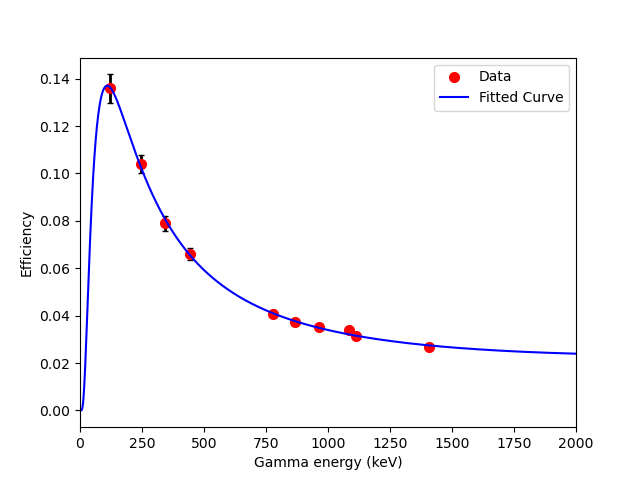
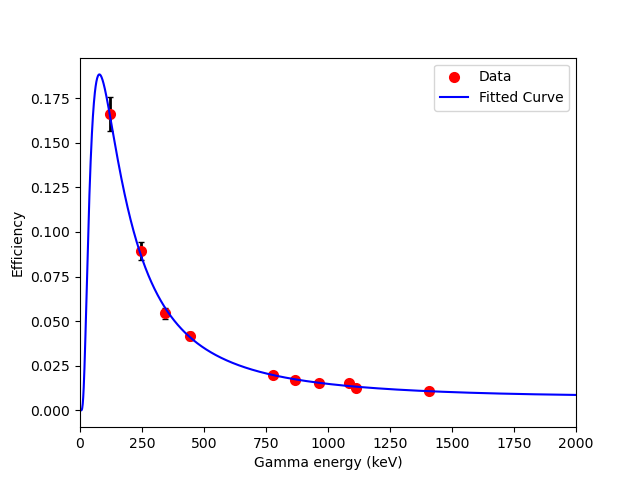
reformatted scipy_fitting and s_s_correction + renamed to nFoils

diff --git a/gamma_spec/scipy_fitting.py b/gamma_spec/scipy_fitting.py
@@ -5,84 +5,71 @@ Created on Wed Feb 19 12:00:16 2025
 
 @author: ethansumner
 """
-
 import numpy as np # type: ignore
 import matplotlib.pyplot as plt
 from scipy.optimize import curve_fit 
 import pandas as pd 
 import scipy.optimize as opt
 
+###########################
+####### USER INPUTS #######
+
+#experimental data
+b03_endcap_exp_data = {
+  121.7817 : {"efficiency" : 0.135849839, "uncertainty": 7.74E-03 },
+  244.6974 : {"efficiency" : 0.103919441, "uncertainty": 5.94E-03 },
+  344.2785 : {"efficiency" : 0.078887158, "uncertainty": 4.50E-03 },
+  443.9606 : {"efficiency" : 0.066050731, "uncertainty": 3.79E-03 },
+  778.9045 : {"efficiency" : 0.040737369, "uncertainty": 2.33E-03 },
+  867.3800 : {"efficiency" : 0.037480357, "uncertainty": 2.16E-03 },
+  964.0570 : {"efficiency" : 0.035006829, "uncertainty": 2.00E-03 },
+  1085.837 : {"efficiency" : 0.033901763, "uncertainty": 1.94E-03 },
+  1112.076 : {"efficiency" : 0.03159819 , "uncertainty": 1.80E-03 },
+  1408.013 : {"efficiency" : 0.026876227, "uncertainty": 1.53E-03 }}
+g11_endcap_exp_data = {
+  121.7817 : {"efficiency" : 0.165991862, "uncertainty": 9.46E-03 },
+  244.6974 : {"efficiency" : 0.089447323, "uncertainty": 5.11E-03 },
+  344.2785 : {"efficiency" : 0.054542061, "uncertainty": 3.11E-03 },
+  443.9606 : {"efficiency" : 0.041743764, "uncertainty": 2.40E-03 },
+  778.9045 : {"efficiency" : 0.019949091, "uncertainty": 1.14E-03 },
+  867.3800 : {"efficiency" : 0.017064127, "uncertainty": 9.88E-04 },
+  964.0570 : {"efficiency" : 0.015357942, "uncertainty": 8.77E-04 },
+  1085.837 : {"efficiency" : 0.015114318, "uncertainty": 8.66E-04 },
+  1112.076 : {"efficiency" : 0.012635361, "uncertainty": 7.22E-04 },
+  1408.013 : {"efficiency" : 0.010719542, "uncertainty": 6.12E-04 }
+}
+# model data 
+b03_endcap_model_data = {
+  100:  {"efficiency" : 1.98E-01, "uncertainty": 1.98E-03 },
+  150:  {"efficiency" : 1.63E-01, "uncertainty": 1.63E-03 },
+  200:  {"efficiency" : 1.31E-01, "uncertainty": 1.31E-03 },
+  400:  {"efficiency" : 6.75E-02, "uncertainty": 6.75E-04 },
+  600:  {"efficiency" : 4.64E-02, "uncertainty": 4.64E-04 },
+  800:  {"efficiency" : 3.63E-02, "uncertainty": 3.63E-04 },
+  1000: {"efficiency" : 2.99E-02, "uncertainty": 2.99E-04 },
+  1500: {"efficiency" : 2.14E-02, "uncertainty": 2.14E-04 }}
+g11_endcap_model_data = {
+  100:  {"efficiency" : 0.20975 , "uncertainty": 0.20975E-01  },
+  150:  {"efficiency" : 0.16322 , "uncertainty": 0.16322E-01  },
+  200:  {"efficiency" : 0.117447, "uncertainty": 0.117447E-01 },
+  400:  {"efficiency" : 0.045982, "uncertainty": 0.045982E-01 },
+  600:  {"efficiency" : 0.027943, "uncertainty": 0.027943E-01 },
+  800:  {"efficiency" : 0.020153, "uncertainty": 0.020153E-01 },
+  1000: {"efficiency" : 0.015819, "uncertainty": 0.015819E-01 },
+  1500: {"efficiency" : 0.010543, "uncertainty": 0.010543E-01 }}
+
+# select which dataset
+x_data = [i for i in g11_endcap_exp_data.keys()]
+y_data = [g11_endcap_exp_data[i]["efficiency" ] for i in x_data]
+errors = [g11_endcap_exp_data[i]["uncertainty"] for i in x_data]
+
+###########################
+###########################
+
 #define efficiency polynomial
 def spec_function(energy,a0,a1,a2,a3):
     polynomial = a0 + a1*np.log(energy)**1 + a2*np.log(energy)**2 + a3*np.log(energy)**3 
     return np.exp(polynomial)
-
-#get data
-folderpath = "/Users/ljb841@student.bham.ac.uk/gamma_spec/deuteron_hpge/hpge_results_b03_291124/calibration"
-filename = "1cm.txt"
-def parse_txt(file):
-    file_path = f"{folderpath}/{file}"
-    with open(file_path,'r') as data_file:
-        file_contents = data_file.readlines()       
-    #return x,y,errors
-
-#experimental data
-x_data = [121.7817
-         ,244.6974
-         ,344.2785
-         ,443.9606
-         ,778.9045
-         ,867.3800
-         ,964.0570
-         ,1085.837
-         ,1112.076
-         ,1408.013]
-y_data = [0.135849839 
-         ,0.103919441 
-         ,0.078887158
-         ,0.066050731
-         ,0.040737369
-         ,0.037480357
-         ,0.035006829
-         ,0.033901763
-         ,0.03159819
-         ,0.026876227]
-errors = [5.95E-03 
-         ,3.80E-03 
-         ,3.14E-03
-         ,2.55E-03
-         ,1.47E-03
-         ,1.20E-03
-         ,1.28E-03
-         ,1.33E-03
-         ,1.16E-03
-         ,9.43E-04]
-
-# #model data 
-# x_data = [100
-#          ,150
-#          ,200
-#          ,400
-#          ,600
-#          ,800
-#          ,1000
-#          ,1500]
-# y_data = [1.98E-01
-#          ,1.63E-01
-#          ,1.31E-01
-#          ,6.75E-02
-#          ,4.64E-02
-#          ,3.63E-02
-#          ,2.99E-02
-#          ,2.14E-02]
-# errors = [1.98E-02
-#          ,1.63E-02
-#          ,1.31E-02
-#          ,6.75E-03
-#          ,4.64E-03
-#          ,3.63E-03
-#          ,2.99E-03
-#          ,2.14E-03]
 
 #SINGLE FITTING OF DATA
 params, covs  = curve_fit(spec_function, x_data, y_data, p0=[0,0,0,0],sigma=errors,absolute_sigma=True)
@@ -120,7 +107,7 @@ print(f"Estimated Single Fit Parameters: \n a0 = {a0}+/-{a0_err}, a1 = {a1}+/-{a
 # plt.close()
 
 #MONTE CARLO METHOD
-N = 10
+N = 100
 a_samples = []
 a1_samples = []
 a2_samples = []

diff --git a/gamma_spec/simple_sum_correction.py b/gamma_spec/simple_sum_correction.py
@@ -8,11 +8,15 @@ import numpy as np # type: ignore
 ####################################
 
 # lists of energies and counts per second
-eu152_endcap = { 121.78:1541, 244.7:260, 344.28:758.2,  443.96:64.99, 778.90:172.3, 867.38:45.64, 964.08:168.6, 1085.86:121.5, 1112.07:143.3, 1408.01:178.4, 1299.14:14.29}
-eu152_38cm = { 121.78:16.16, 244.7:3.262, 344.28:8.735, 443.96:0.7764 , 778.90:2.189, 867.38:0.659, 964.08:2.111, 1085.86:1.425, 1112.07:1.794, 1408.01:2.331, 1299.14:0.1887}
+#eu152_endcap = { 121.78:1541, 244.7:260, 344.28:758.2,  443.96:64.99, 778.90:172.3, 867.38:45.64, 964.08:168.6, 1085.86:121.5, 1112.07:143.3, 1408.01:178.4, 1299.14:14.29}
+#eu152_far = { 121.78:16.16, 244.7:3.262, 344.28:8.735, 443.96:0.7764 , 778.90:2.189, 867.38:0.659, 964.08:2.111, 1085.86:1.425, 1112.07:1.794, 1408.01:2.331, 1299.14:0.1887}
+eu152_endcap = { 121.78:2318, 244.7:257.6, 344.28:729.9,  443.96:51.36, 778.90:124.8, 867.38:27.46, 964.08:104.6, 1085.86:81.4, 1112.07:85.35, 1408.01:101.6, 1299.14:9.058}
+eu152_far = { 121.78:45.63, 244.7:6.497, 344.28:13.93, 443.96:1.14 , 778.90:2.479, 867.38:0.68, 964.08:2.164, 1085.86:1.354, 1112.07:1.599, 1408.01:1.983, 1299.14:0.1928}
 
-am241_endcap = { 59.54:5128 }
-am241_38cm = { 59.54:41.24}
+#am241_endcap = { 59.54:5128 }
+#am241_far = { 59.54:41.24}
+am241_endcap = { 59.54:17950 }
+am241_far = { 59.54:350.3}
 
 ####################################
 ####################################
@@ -27,13 +31,13 @@ def number_counts(near_dictionary,far_dictionary,energy):
 
 # find factor for each peak at a given energy and counts in the peak. taken from simple c summing paper
 def correction_factor(source_dict_near,source_dict_far,energy):
-    ratio_near = number_counts(am241_endcap,am241_38cm,59.54)[0] / number_counts(source_dict_near,source_dict_far,energy)[0]
-    ratio_far = number_counts(am241_endcap,am241_38cm,59.54)[1] / number_counts(source_dict_near,source_dict_far,energy)[1]
+    ratio_near = number_counts(am241_endcap,am241_far,59.54)[0] / number_counts(source_dict_near,source_dict_far,energy)[0]
+    ratio_far = number_counts(am241_endcap, am241_far,59.54)[1] / number_counts(source_dict_near,source_dict_far,energy)[1]
     correction_factor = ratio_near/ratio_far
     return correction_factor
 
 correction_factors_list = []
 for energy in eu152_endcap.keys():
-    correction_factors_list.append(correction_factor(eu152_endcap,eu152_38cm,energy))
+    correction_factors_list.append(correction_factor(eu152_endcap,eu152_far,energy))
 print(eu152_endcap.keys())
 print(correction_factors_list)

diff --git a/gamma_spec/activity_calculator.py b/gamma_spec/activity_calculator.py
@@ -24,7 +24,7 @@ peak_library = 'root'
 # choose experiment (deuteron or proton)
 experiment = 'proton'
 
-# input fractional uncertainty on your eff curve fit
+# input fractional uncertainty on your eff curve fit - dominated by measurement uncertainty on the calibration source
 efficiency_uncert_frac = 0.057
 
 ##########################################################################################
@@ -105,9 +105,9 @@ def activity_livetime(c,i,e) :
         detector_crystal_radius = 3.25
         eff_values = [-23.491, 11.4696, -1.952, 0.103] #exp
         #eff_values = [-15.197, 7.983, -1.456, 0.0789] #model
-    if measurement_distance == 0.5: #g11 bege model SOON
+    if measurement_distance == 0.5: #g11 bege model
         detector_crystal_radius = 3.75
-        eff_values = [0.0, 4e-16, -2e-12, 4e-9 ] # CHANGE ASAP WHEN G11 MODEL FIXED
+        eff_values = [-26.209, 13.931, -2.4957, 0.13609 ] # exp
     if measurement_distance == 38: #b03 hpge model
         detector_crystal_radius = 3.25
         eff_values = [-27.257, 10.917, -1.8563, 0.09776] #exp
